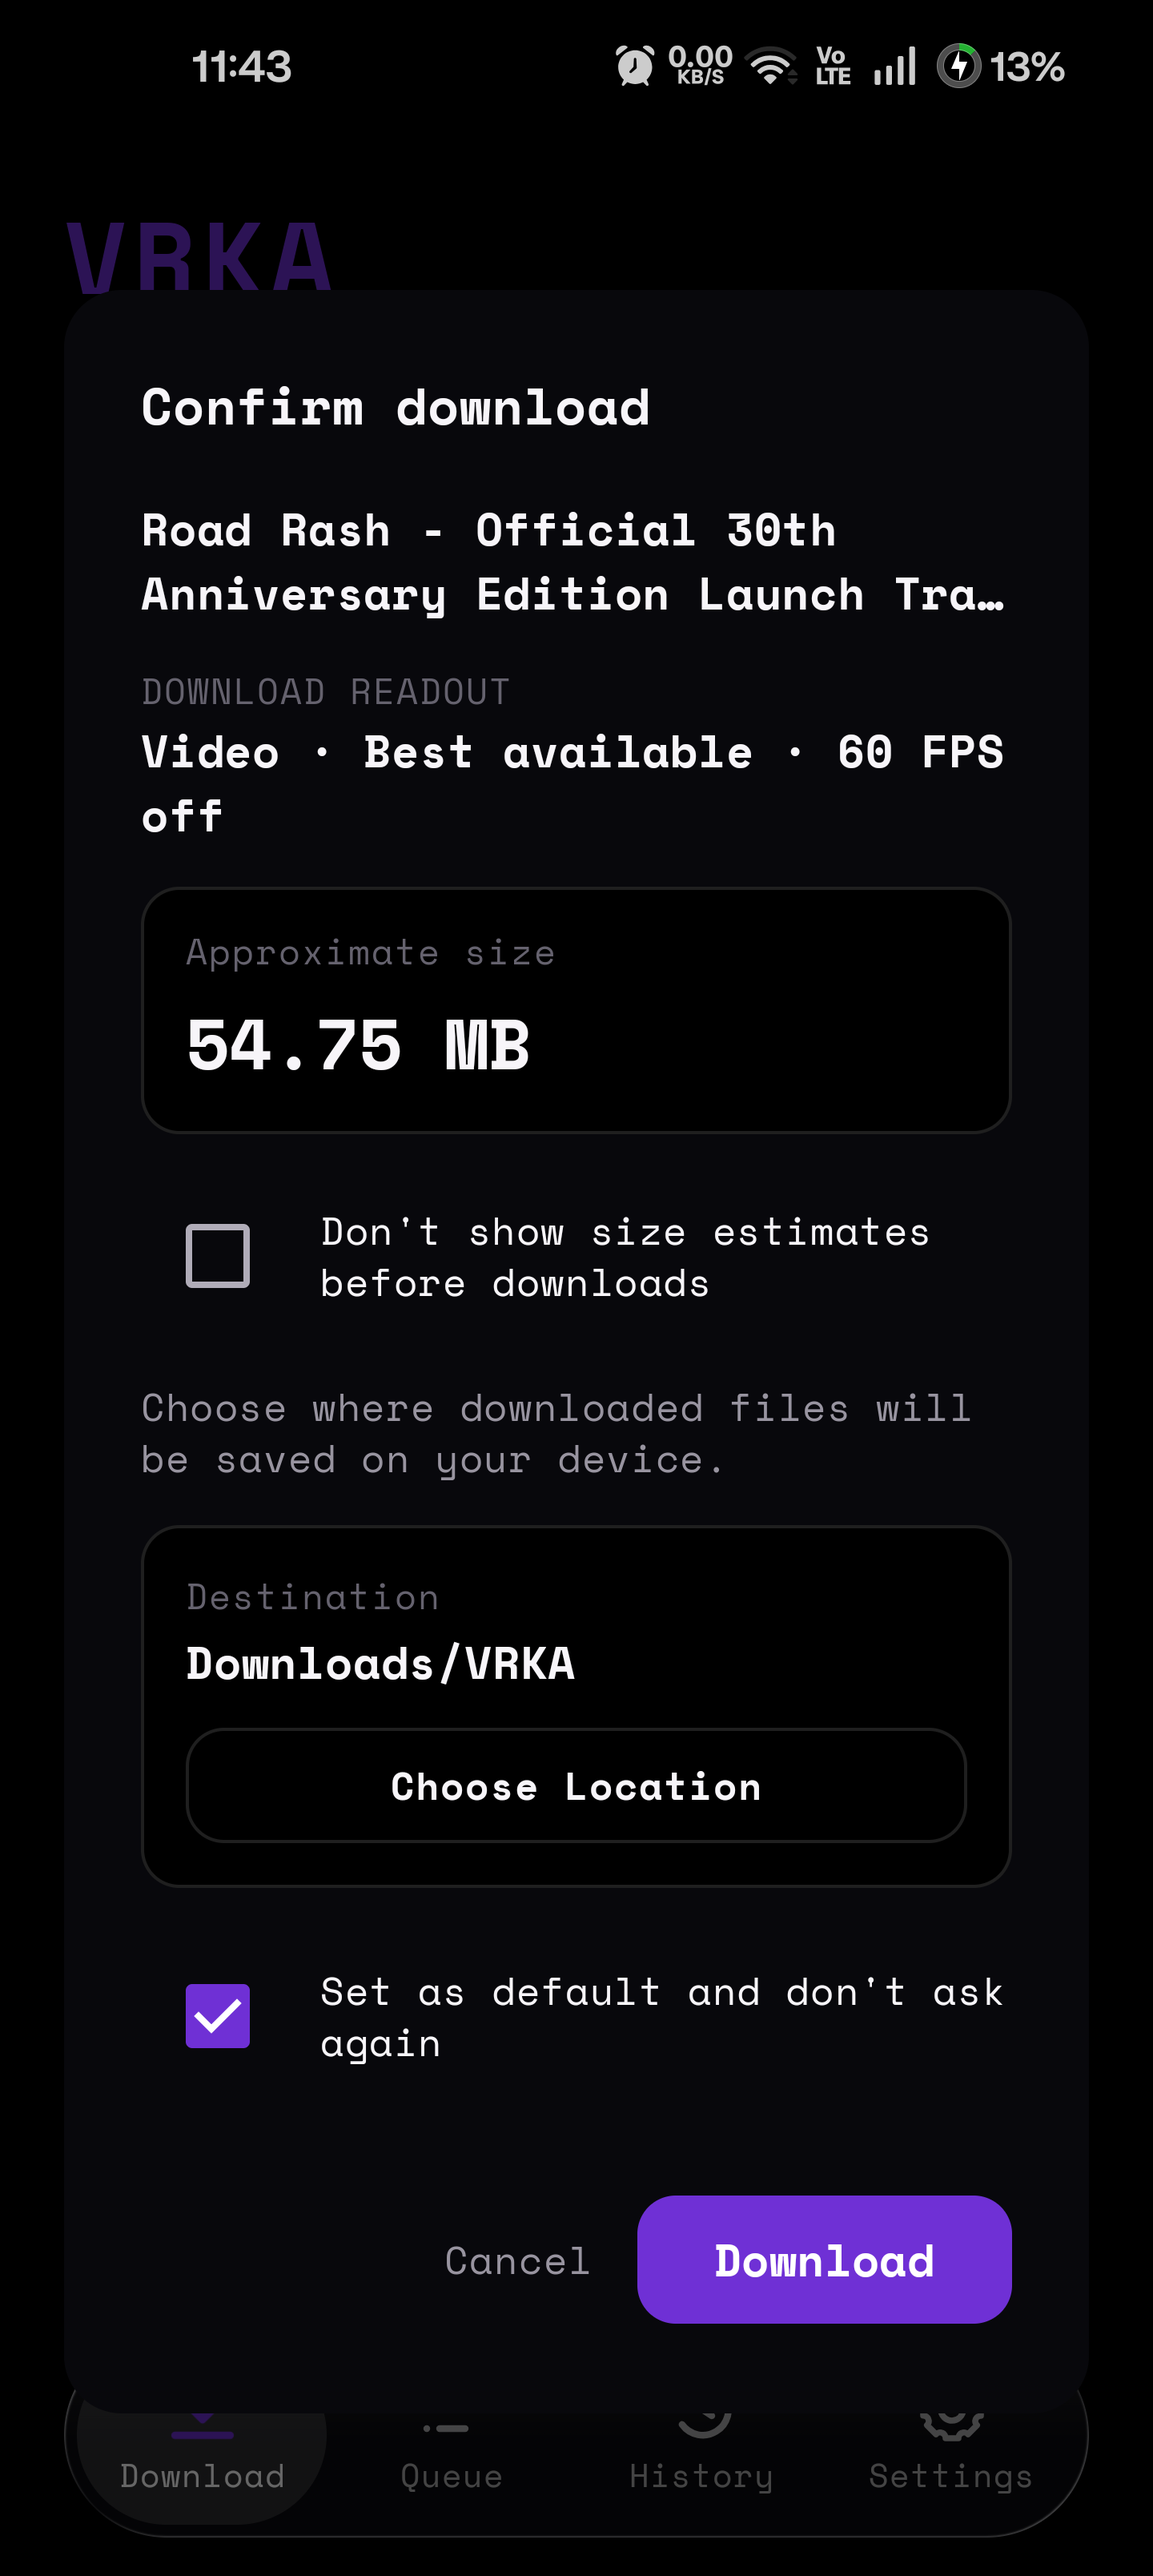
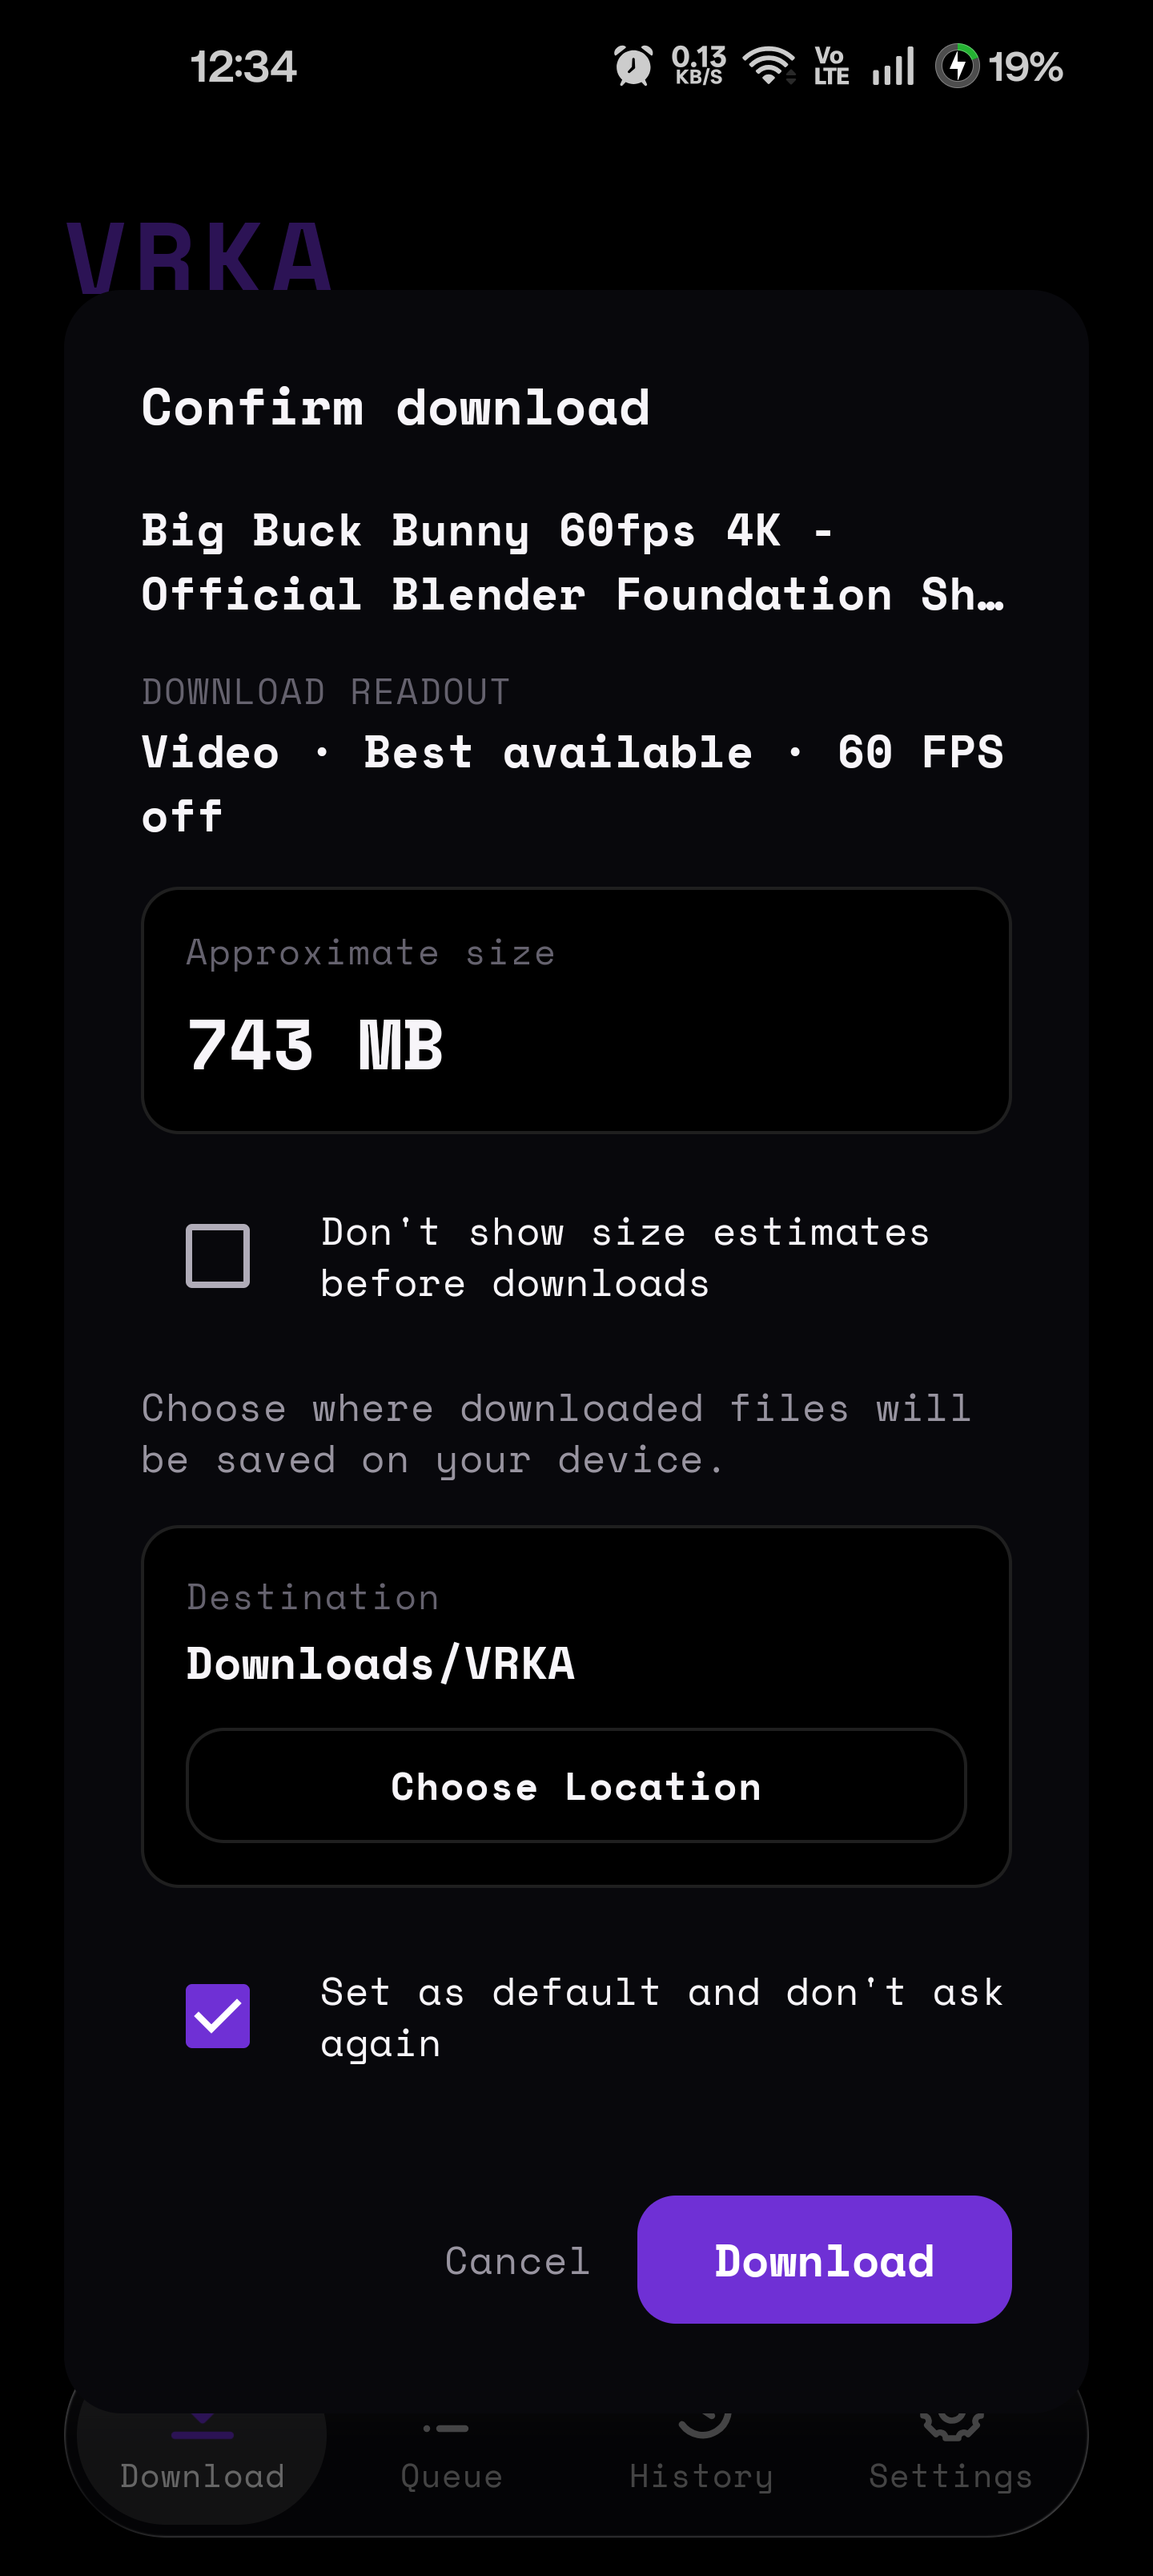
docs: refresh v5.1.1 product showcase and release presentation
Update repository hero showcase banner with genuine upright smartphone mockups inspired by LastWave layout, replace legacy empty-state screenshots with verified physical device ADB captures (preflight chips, confirmation modal, active Comet progress at 49%, 709MB completed history, GeckoView browser fallback, settings), and update release documentation and security policy for official v5.1.1.

diff --git a/README.md b/README.md
@@ -23,7 +23,7 @@
 <br />
 
 > [!IMPORTANT]
-> **USERS UPGRADING FROM VRKA v5.0.2 MUST DOWNLOAD AND INSTALL v5.1.0 DIRECTLY FROM THE OFFICIAL GITHUB RELEASE PAGE. THE v5.0.2 IN-APP UPDATER CANNOT COMPLETE THIS UPDATE. DO NOT USE THE RETRY BUTTON.**
+> **USERS UPGRADING FROM VRKA v5.0.2 MUST DOWNLOAD AND INSTALL v5.1.1 DIRECTLY FROM THE OFFICIAL GITHUB RELEASE PAGE. THE v5.0.2 IN-APP UPDATER CANNOT COMPLETE THIS UPDATE. DO NOT USE THE RETRY BUTTON.**
 > 
 > **OFFICIAL DOWNLOAD PAGE:**
 > https://github.com/MaverickRox/VRKA-Android/releases/tag/v5.1.1
@@ -31,7 +31,7 @@
 > **INSTALLATION:** Download `VRKA-Android-v5.1.1.apk` from the Assets section and install it over your existing VRKA installation. NO NEED TO UNINSTALL v5.0.2 FIRST.
 
 <div align="center">
-  <img src="docs/assets/social-preview.png" alt="VRKA Android Social Preview" width="900" />
+  <img src="docs/screenshots/v5.1.1/vrka-v5.1.1-showcase.png" alt="VRKA Android v5.1.1 Product Showcase" width="900" />
 </div>
 
 ---
@@ -62,31 +62,40 @@ Core capabilities:
 ## Screenshots
 
 <div align="center">
-  <img src="docs/screenshots/v5.1.1/vrka-v5.1.1-showcase.png" alt="VRKA Android v5.1.1 Product Showcase" width="900" /><br /><br />
 
 <table>
   <tr>
     <td align="center" width="33%">
-      <img src="docs/screenshots/download-dark.png" width="220" alt="Download Screen (Dark Mode)" /><br />
-      <b>Download Interface</b><br />
-      <sub>Format, resolution & codec selection</sub>
+      <img src="docs/screenshots/v5.1.1/download-v5.1.1.png" width="230" alt="Format Preflight & Estimation" /><br />
+      <b>Preflight & Resolution Chips</b><br />
+      <sub>Synchronized 4K / 2K download size estimation</sub>
     </td>
     <td align="center" width="33%">
-      <img src="docs/screenshots/queue-dark.png" width="220" alt="Queue Screen" /><br />
-      <b>Task Queue</b><br />
-      <sub>Persistent queue with optional concurrency</sub>
+      <img src="docs/screenshots/v5.1.1/confirmation-v5.1.1.png" width="230" alt="Destination Confirmation" /><br />
+      <b>Confirmation Modal</b><br />
+      <sub>Destination folder & stream pre-allocation</sub>
     </td>
     <td align="center" width="33%">
-      <img src="docs/screenshots/history-dark.png" width="220" alt="History Screen" /><br />
-      <b>Download History</b><br />
-      <sub>Archived tasks & media files</sub>
+      <img src="docs/screenshots/v5.1.1/queue-v5.1.1.png" width="230" alt="Active Queue" /><br />
+      <b>Active Task Queue</b><br />
+      <sub>18-track Comet glow wake & live transfer speed</sub>
     </td>
   </tr>
   <tr>
     <td align="center" width="33%">
-      <img src="docs/screenshots/download-light.png" width="220" alt="Download Screen (Light Mode)" /><br />
-      <b>Light Mode</b><br />
-      <sub>Adaptive high-contrast light theme</sub>
+      <img src="docs/screenshots/v5.1.1/history-v5.1.1.png" width="230" alt="Completed History" /><br />
+      <b>Download History</b><br />
+      <sub>Verified 709 MiB published media output</sub>
+    </td>
+    <td align="center" width="33%">
+      <img src="docs/screenshots/v5.1.1/browser-fallback-v5.1.1.png" width="230" alt="GeckoView Fallback" /><br />
+      <b>Browser Fallback</b><br />
+      <sub>Passive stream detection & uBlock Origin filtering</sub>
+    </td>
+    <td align="center" width="33%">
+      <img src="docs/screenshots/v5.1.1/settings-v5.1.1.png" width="230" alt="Settings & Preferences" /><br />
+      <b>Settings & Storage</b><br />
+      <sub>Concurrency limits, typography & destination policies</sub>
     </td>
   </tr>
 </table>
@@ -139,7 +148,7 @@ VRKA Android includes a hardened, cryptographically verified in-app update engin
 - **24-Hour Automatic Gate**: Automatic startup checks run at most once every 24 hours to reduce network traffic.
 - **Manual Check Bypass**: The `[Check for Updates]` button in Settings bypasses the 24-hour interval to check immediately.
 - **Non-Blocking Startup**: Checks run asynchronously without slowing down app startup.
-- **Canonical Stable Releases**: Accepts stable three-part tags such as `v5.1.0`, compares numeric version segments, and requires the exact matching asset `VRKA-Android-v5.1.0.apk`.
+- **Canonical Stable Releases**: Accepts stable three-part tags such as `v5.1.1`, compares numeric version segments, and requires the exact matching asset `VRKA-Android-v5.1.1.apk`.
 - **HTTPS-Only Networking & Host Validation**: Streams metadata and APK files over HTTPS from approved GitHub release hosts, rejecting user-info, nonstandard ports, and unapproved hosts.
 - **Redirect Validation**: Validates every redirect target and limits redirect hops to at most 5.
 - **Two-Stage Install Verification**: Verifies archive integrity, package identity, version code, and signer certificate on temporary downloads, followed by canonical filename verification on staged files before launching Android's `PackageInstaller`.
@@ -310,43 +319,45 @@ The compiled release artifact will be located at:
 app/build/outputs/apk/release/app-release.apk
 ```
 
-The official v5.1.0 release APK is production-signed. Check [RELEASE_EVIDENCE.md](RELEASE_EVIDENCE.md) for its exact path, SHA-256, package metadata and signing certificate. The local v5.1.1 candidate is only built with the debug keystore for development validation; no production-signed v5.1.1 APK exists.
+The official v5.1.1 release APK is production-signed. Check [RELEASE_EVIDENCE.md](RELEASE_EVIDENCE.md) for its exact path, SHA-256, package metadata and signing certificate.
 
 ---
 
 ## Release Signing
 
-The `release` build type requires explicit signing credentials and never silently falls back to a debug key. Verify the v5.1.0 artifact's certificate and SHA-256 against [RELEASE_EVIDENCE.md](RELEASE_EVIDENCE.md) or official release checksums before installation. The v5.1.1 local candidate has no published artifact to verify.
+The `release` build type requires explicit signing credentials and never silently falls back to a debug key. Verify the v5.1.1 artifact's certificate and SHA-256 against [RELEASE_EVIDENCE.md](RELEASE_EVIDENCE.md) or official release checksums before installation.
 
 ---
 
 ## Installation
 
 > [!NOTE]
-> **Upgrading from v5.0.2**: Due to a known client-side verification check on temporary download files in the v5.0.2 binary, the in-app updater cannot self-execute the upgrade. Existing v5.0.2 users should download `VRKA-Android-v5.1.0.apk` directly and install it over v5.0.2. Because both versions share the identical production signing key, all app data, settings, and download histories are preserved.
+> **Upgrading from v5.0.2**: Due to a known client-side verification check on temporary download files in the v5.0.2 binary, the in-app updater cannot self-execute the upgrade. Existing v5.0.2 users should download `VRKA-Android-v5.1.1.apk` directly and install it over v5.0.2. Because both versions share the identical production signing key, all app data, settings, and download histories are preserved.
 
-1. Download the official `VRKA-Android-v5.1.0.apk` from [GitHub Releases](https://github.com/MaverickRox/VRKA-Android/releases/latest).
+1. Download the official `VRKA-Android-v5.1.1.apk` from [GitHub Releases](https://github.com/MaverickRox/VRKA-Android/releases/latest).
 2. Verify the SHA-256 hash against `SHA256SUMS`:
    ```powershell
-   (Get-FileHash .\VRKA-Android-v5.1.0.apk -Algorithm SHA256).Hash
+   (Get-FileHash .\VRKA-Android-v5.1.1.apk -Algorithm SHA256).Hash
    ```
[2 lines of base64/hex data omitted]
 3. Install on your Android device:
    ```bash
-   adb install -r .\VRKA-Android-v5.1.0.apk
+   adb install -r .\VRKA-Android-v5.1.1.apk
    ```
 
 ---
 
 ## Third-Party Notices & Attribution
 
-VRKA Android integrates the following open-source software:
+VRKA Android integrates and references the following open-source software and creative assets:
 - **yt-dlp**: The Unlicense ([yt-dlp/yt-dlp](https://github.com/yt-dlp/yt-dlp))
 - **Mozilla GeckoView**: Mozilla Public License 2.0 ([GeckoView](https://wiki.mozilla.org/Mobile/GeckoView))
 - **uBlock Origin**: GNU General Public License v3.0 ([gorhill/uBlock](https://github.com/gorhill/uBlock))
 - **FFmpeg**: LGPL / GPL licensed components ([FFmpeg](https://ffmpeg.org/))
 - **Space Mono Font**: SIL Open Font License 1.1 ([Space Mono](https://github.com/googlefonts/spacemono))
 - **Mornye Switch Component**: LGPL-3.0 / GPL-3.0 ([Mornye](https://github.com/MaverickRox/Mornye))
+- **Big Buck Bunny**: © 2008, Blender Foundation / [www.bigbuckbunny.org](https://www.bigbuckbunny.org), licensed under Creative Commons Attribution 3.0 ([CC-BY 3.0](https://creativecommons.org/licenses/by/3.0/)).
+- **Shaka Player Demo**: Google LLC, licensed under Apache License 2.0 ([Shaka Player](https://github.com/shaka-project/shaka-player)).
 
 ---
 

diff --git a/RELEASE_EVIDENCE.md b/RELEASE_EVIDENCE.md
@@ -3,7 +3,7 @@
 **Verification date:** 2026-11-08
 
 **Source version:** `5.1.1` (`versionCode` 50101)
-**Source revision:** `main` at `aa15472` plus the local, uncommitted v5.1.1 working-tree changes. No commit, tag, release, or published asset exists for v5.1.1.
+**Source revision:** `main` at `ef656e5c4e3a145847faa52186b6aa21625447a4` (tagged `v5.1.1`). Official release published at https://github.com/MaverickRox/VRKA-Android/releases/tag/v5.1.1.
 **Validation state:** JVM unit tests, Android test-source compilation, debug/devRelease builds, release-variant Kotlin compilation, lint, APK metadata, and hermetic updater security tests. Physical device validation performed on OnePlus 11 (Android 16, SDK 36, ARM64).
 
 ## Automated checks
@@ -17,7 +17,7 @@
 | Debug APK | `./gradlew assembleDebug` | PASS |
 | Development release APK (R8, debug keystore) | `./gradlew assembleDevRelease` | PASS |
 | Lint | `./gradlew lintDebug` | PASS: 277 warnings, 3 hints, 0 errors/fatal. Warnings in modified files are existing `UseKtx`, `LocalContextResourcesRead` and `ModifierParameter` patterns; the corrected estimator, JobStore, diagnostics, updater, destination and new accessibility code add no new lint ID |
-| CI workflow syntax | PyYAML parse of `.github/workflows/ci.yml` | PASS; the workflow has not been executed on GitHub |
+| CI workflow execution | GitHub Actions CI on `main` | PASS: 100% build & test pass (Run ID `42510821254`, duration 11m 19s) |
 
 Result: `BUILD SUCCESSFUL` for every command. The definitive unit run exited `0`; stdout and stderr were captured to `/tmp/vrka-unit-stdout.txt` and `/tmp/vrka-unit-stderr.txt`, and the XML report timestamps came from that same run (newest `2026-11-08 23:11:01`). The unit suite ran with an empty temporary `user.home`; the temporary home contained no `.vrka` directory. A regression test scans the unit-test sources to ensure no test references the production signing key. All previously key-gated cryptographic tests now run on every normal run with generated temporary OpenPGP keys.
 
@@ -44,7 +44,15 @@ Tested on connected physical OnePlus 11 (CPH2447, Android 16 / SDK 36, arm64-v8a
   - Confirmation dialog: 2160p at `54.75 MB` (synchronized with 4K chip).
   - Active download transfer: displayed `"Downloading media"` neutral state (correcting `"Downloading audio"`), `16.61 MiB/s`, `Downloaded 46.8 MiB / 51.7 MiB`.
   - Final output published to `Downloads/VRKA` at `52.2 MiB` (exact match to target output).
-- Captured full-resolution screenshots in `docs/screenshots/v5.1.1/` and produced AMOLED product showcase mockup `vrka-v5.1.1-showcase.png`.
+- Creative Commons demonstration with Big Buck Bunny 4K (60fps, CC-BY 3.0 Blender Foundation):
+  - Preflight format chip estimates: Best available and 4K chips synchronized at `~743 MB`.
+  - Destination & Confirmation modal: 2160p at `743 MB` into `Downloads/VRKA`.
+  - Active Queue transfer: tracked with 18-track Comet progress glow bar reaching 49.2% progress at `16.6 MB/s`.
+  - Completed History: verified published output at `709.0 MiB` in `Downloads/VRKA` with full playback actions.
+- Passive Browser Fallback & Stream Discovery:
+  - Navigated to Shaka Player adaptive streaming demo in GeckoView private session.
+  - Verified internal `VRKA Media Detector` WebExtension passively captured DASH/HLS stream manifests while bundled `uBlock Origin` filtered telemetry.
+- Captured 6 full-resolution, keyboard-free physical device screenshots in `docs/screenshots/v5.1.1/` and produced AMOLED product showcase mockup `vrka-v5.1.1-showcase.png`.
 
 ## Published v5.1.0 manifest integrity resolution
 

diff --git a/SECURITY.md b/SECURITY.md
@@ -2,12 +2,11 @@
 
 ## Supported Versions
 
-| Version | Supported |
-| :--- | :--- |
-| 5.1.1 (local candidate, unpublished) | :construction: |
-| 5.1.0 | :white_check_mark: |
-| 5.0.2 | :white_check_mark: |
-| 5.0.1 and older | :x: |
+| Version | Supported | Notes |
+| :--- | :--- | :--- |
+| 5.1.1 | :white_check_mark: | Current official stable release |
+| 5.1.0 | :white_check_mark: | Prior stable release |
+| 5.0.2 and older | :x: | Unsupported; upgrade to v5.1.1 directly |
 
 ## Reporting a Vulnerability
 
@@ -15,9 +14,11 @@ Report vulnerabilities through the [GitHub security page](https://github.com/Mav
 
 ## Release Integrity
 
-The official v5.1.0 release APK is production-signed. Verify its signature and SHA-256 against `RELEASE_EVIDENCE.md` or official GitHub release checksums before installation.
+The official v5.1.1 and v5.1.0 release APKs are production-signed with APK Signature Scheme v2 (RSA 4096-bit). Verify signatures and SHA-256 against `RELEASE_EVIDENCE.md` or published `SHA256SUMS` before installation.
 
-The v5.1.1 local candidate has no production-signed APK, manifest, or detached signature. Its development APK is debug-signed only. Production signing, manifest signing, tagging, and publication must be performed separately with the release credentials.
+- **v5.1.1 Release APK:** `VRKA-Android-v5.1.1.apk`
[2 lines of base64/hex data omitted]
 
 The `release` build type requires explicit signing properties; it has no debug-key fallback. Never publish signing properties, keystores, passwords, or private signing keys in this repository or artifact package.
 
